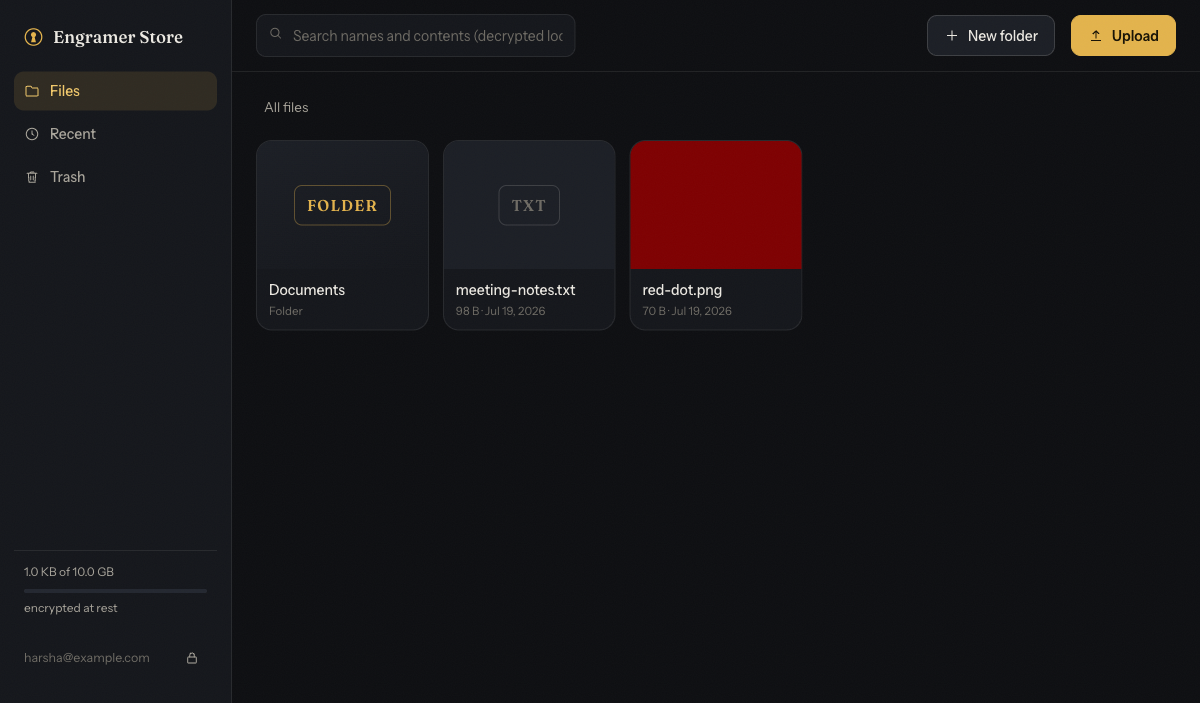
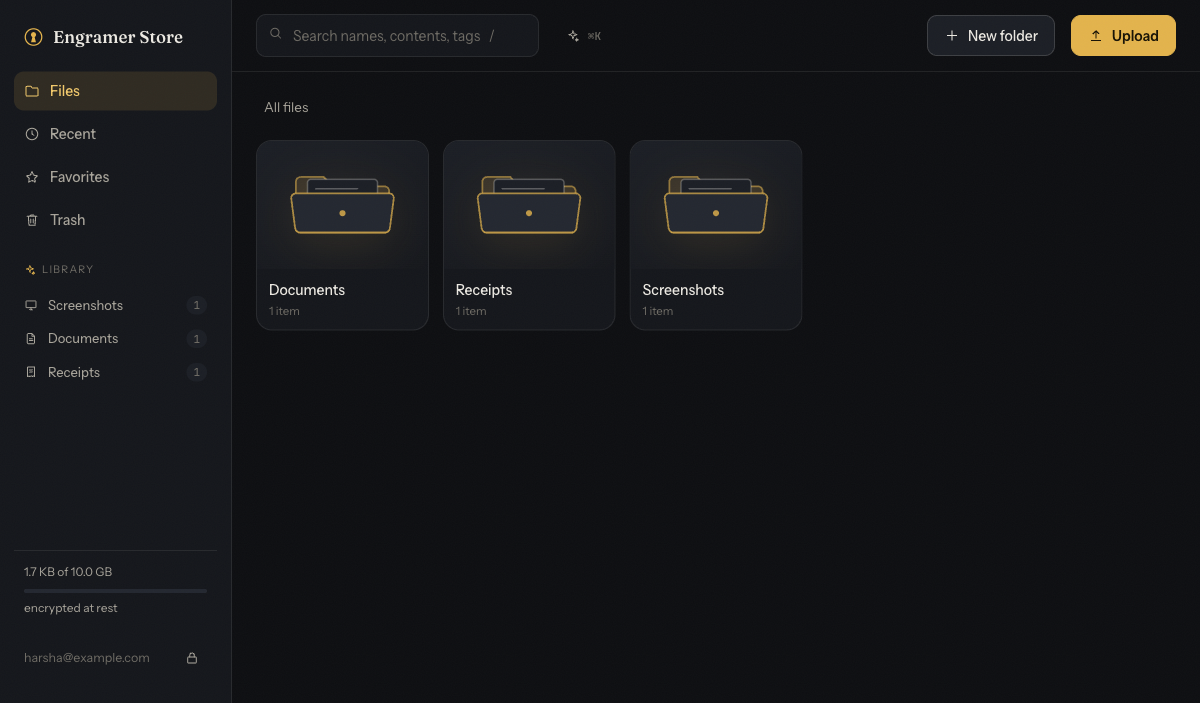
docs: intelligence design, platform roadmap, and 0.2.0 changelog
Designed by Harsha Rahul

diff --git a/docs/intelligence.md b/docs/intelligence.md
@@ -1,0 +1,63 @@
+# Client-side intelligence
+
+Everything described here runs in the browser, on decrypted data that never leaves the device. The server continues to store only ciphertext; categories, tags, and extracted text live inside each file's encrypted metadata. This is the same principle Ente applies to photos (on-device ML, encrypted indexes) applied to general file storage.
+
+## Auto-categorization
+
+Every upload is analyzed on the client before encryption:
+
+1. **Type signals**: MIME type and extension.
+2. **Name signals**: filename patterns (for example `Screenshot 2026-07-19 at ...`, `IMG_1234`, `invoice-march.pdf`).
+3. **Image signals**: EXIF (capture date, camera make) and pixel dimensions.
+4. **Content signals**: keywords in extracted text (invoice, receipt, total due, agreement, resume, tax year, and similar).
+
+The analyzer produces one **category** and a set of **tags**:
+
+| Category | Examples of what lands here |
+|---|---|
+| Photos | Camera images (EXIF present or photo-like names) |
+| Screenshots | Screen captures by filename or exact screen dimensions |
+| Videos, Audio | By MIME |
+| Documents | PDF and word-processing files without a stronger signal |
+| Receipts | Documents whose text reads like an invoice or receipt |
+| Notes | Markdown and plain text |
+| Code | Source files by extension |
+| Spreadsheets, Presentations | By MIME and extension |
+| Design | SVG, PSD, Figma exports, fonts |
+| Archives | zip, tar, dmg, and friends |
+| Books | epub, mobi |
+| Other | Everything else |
+
+Tags always include the category, the year (from EXIF capture date or file modification time), and the extension; plus situational tags such as `screenshot`, the camera make, or document tags like `invoice`, `contract`, `resume`.
+
+**Auto-filing**: files uploaded at the root are placed into a category folder (`Photos`, `Receipts`, ...) created on demand with an encrypted name. Uploads into a folder the user chose stay where the user put them; they are still tagged. After each upload batch, a reveal toast summarizes what was filed where and which tags were added; clicking it navigates to the destination.
+
+Categories and tags are ordinary metadata fields (`category`, `tags`, `favorite`) inside the encrypted metadata blob, so the server learned nothing new in this release and no schema migration was needed.
+
+## Content extraction
+
+- Plain text and code: read directly (512 KB read cap, 100 KB stored).
+- PDF: text extracted in the browser with pdf.js, capped at 40 pages and 100 KB.
+- Images: EXIF capture date and camera make.
+
+Extracted text is stored in the encrypted metadata and powers full-text search.
+
+## Search
+
+One engine serves the top bar and the command palette (Cmd+K or Ctrl+K):
+
+- Fuzzy name matching with tightness scoring.
+- Full-text matches over extracted content with highlighted snippets.
+- Filters composable with free text: `tag:receipts`, `type:image`, `type:pdf`, `in:<folder name>`, `is:favorite`.
+- The palette also surfaces actions (upload, new folder, jump to views) and navigates with arrow keys.
+
+Search never issues a network request; the index is the decrypted metadata already in memory.
+
+## Library views
+
+The sidebar's Library section lists auto-categories with live counts (Photos, Screenshots, Documents, Receipts, and any other non-empty category) plus Favorites. These are smart views computed from tags, independent of physical folder location.
+
+## Planned
+
+- Optional OCR for screenshots and scans (Tesseract WASM, self-hosted assets, opt-in because of asset size).
+- Semantic image search with an on-device CLIP-family model through transformers.js, following Ente's MobileCLIP approach; embeddings would join the encrypted metadata like every other derived signal.

diff --git a/README.md b/README.md
@@ -12,10 +12,12 @@ Cloud storage should not require trusting the storage provider. Engramer Store a
 
 - **True end-to-end encryption.** XChaCha20-Poly1305 streaming encryption for file content, XSalsa20-Poly1305 for keys and metadata, Argon2id for password key derivation. All primitives from libsodium; no custom cryptography.
 - **Drive-style file management.** Nested folders, drag-and-drop multi-file upload with per-file progress, rename, move, trash and restore.
-- **Client-side search.** Fuzzy file name search plus full-text search over content extracted from text files at upload time. The index is part of the encrypted metadata; queries never leave your device.
+- **Auto-organization.** Every upload is analyzed on your device and filed into category folders (Photos, Screenshots, Receipts, Code, and more) with auto-assigned tags: capture year, camera make, invoice, contract, resume. The Library sidebar gives live category views. All of it lives inside encrypted metadata; the server sees none of it. See [docs/intelligence.md](docs/intelligence.md).
+- **Client-side search.** A Cmd+K command palette and top-bar search over names, tags, and full text extracted from text files and PDFs at upload time, with filters like `tag:receipts`, `type:image`, `in:Work`, `is:favorite`. Queries never leave your device.
 - **Encrypted previews and thumbnails.** Images, video, audio, PDF, and text preview in the browser after local decryption. Thumbnails are generated on the client and stored encrypted.
 - **Public share links that keep the server blind.** The decryption key travels in the URL fragment, which browsers never send over the wire. Links are revocable server-side.
 - **Recovery keys.** A random recovery key, shown once at signup, can restore access after a lost password. Password changes re-wrap the master key without re-encrypting any data.
+- **Installable app.** The web client is a PWA: add it to your iPhone home screen or your Mac Dock and it runs standalone with its own icon. Paste a screenshot anywhere in the app to store it encrypted. Native desktop and mobile plans are in [docs/native-apps.md](docs/native-apps.md).
 - **Quotas and delta sync.** Per-user storage quotas enforced during streaming upload, and a sequence-number sync protocol so clients converge in one round trip.
 
 ## What the server can and cannot see
@@ -35,6 +37,8 @@ pnpm --filter @engramer/server start
 ```
 
 Open http://127.0.0.1:3080, create a vault, and store your recovery key somewhere safe. All state lives under `apps/server/data/`.
+
+To use it as an app: on iPhone, open the site in Safari, tap Share, then "Add to Home Screen"; on a Mac, use Safari's File menu, "Add to Dock" (or Chrome's Install button).
 
 Configuration via environment variables:
 

diff --git a/docs/native-apps.md b/docs/native-apps.md
@@ -1,0 +1,25 @@
+# Apps and platforms
+
+## What exists today
+
+| Platform | Status |
+|---|---|
+| Web | Full client at your server's URL |
+| iPhone / iPad | Installable web app (PWA): Share, then "Add to Home Screen". Opens standalone with its own icon; on iOS 26 home-screen sites open as apps by default |
+| Mac | Installable web app: Safari File menu, "Add to Dock", or Chrome "Install Engramer Store". Runs in its own window with a Dock icon |
+| Android | Installable PWA with install prompt |
+| Native desktop and mobile binaries | Planned; see roadmap below |
+
+For comparison: Google Drive ships native iOS, Android, and desktop sync clients; Ente ships Flutter apps for iOS and Android plus desktop builds. Engramer Store starts from an installable web app because the entire client, including all cryptography, already runs in the browser.
+
+### iOS notes
+
+The installed web app works offline for the app shell, but iOS applies tighter storage limits than other platforms and can evict site storage after long disuse. Keys live in the session only, so eviction never risks data loss; you sign back in and the vault resyncs. In the EU, Apple opens home-screen web apps in the browser instead of standalone mode.
+
+## Roadmap
+
+**Desktop (first): Tauri 2.** Tauri wraps the existing web client in a native shell with a Rust core: binaries around 8 MB versus roughly 165 MB for an equivalent Electron app, with lower memory use. Stable since October 2024. The desktop app adds what a browser cannot do well: a menu-bar quick-drop target, global shortcut capture, launch at login, and native file associations. The web client is reused as-is, so the crypto path stays identical and audited once.
+
+**Mobile (second): Tauri mobile or Flutter.** Tauri 2 has iOS and Android targets sharing the desktop codebase, with a stable API but a younger plugin ecosystem. If the mobile experience needs to go deeper than a WebView (background camera upload, share-sheet integration, widgets), Flutter is the fallback, which is the route Ente took. Decision point: after the desktop app ships, evaluate Tauri mobile's camera and share-extension plugins; choose Flutter only if they fall short.
+
+**Not planned: Electron.** Bundle size and memory cost buy nothing here that Tauri does not already provide.

diff --git a/docs/architecture.md b/docs/architecture.md
@@ -126,7 +126,7 @@ React 19 + Vite. All cryptography runs in the browser through the shared crypto 
 - The file browser is a Drive-style tree with grid and list views, breadcrumbs, drag-and-drop upload, multi-file upload with per-file progress, and keyboard navigation.
 - Uploads: read, chunk-encrypt, and stream per file; generate and encrypt thumbnails for images and video frames; extract text content from small text files into the encrypted metadata for search.
 - Previews decrypt to an in-memory blob URL: images, video, audio, PDF, and text render natively without the plaintext ever touching the server.
-- Search runs entirely on the client over decrypted metadata: fuzzy file name match, type filters, and full-text hits from the extracted content index. This is the Ente principle applied to files: the intelligence lives with the user, the ciphertext lives with the server.
+- Search runs entirely on the client over decrypted metadata: fuzzy file name match, type filters, and full-text hits from the extracted content index. This is the Ente principle applied to files: the intelligence lives with the user, the ciphertext lives with the server. Auto-categorization, tags, and the search grammar are described in [intelligence.md](intelligence.md).
 - Session state keeps decrypted keys in memory only. Reloading re-derives from the password or a session-cached wrapped key.
 
 ## Trust model

diff --git a/CHANGELOG.md b/CHANGELOG.md
@@ -1,5 +1,20 @@
 # Changelog
 
+## 0.2.0
+
+Intelligence and experience release. Everything below runs on the client; the server still sees only ciphertext.
+
+- Auto-categorization: uploads are analyzed on-device (type, name patterns, EXIF, dimensions, content keywords) and filed into category folders with auto-assigned tags such as capture year, camera make, screenshot, invoice, contract, and resume.
+- Library: live category views in the sidebar (Photos, Screenshots, Documents, Receipts, and more) computed from encrypted tags.
+- Deeper search: full-text extraction from PDFs via pdf.js joins text files in the encrypted index; a Cmd+K command palette searches names, tags, and contents with filters (`tag:`, `type:`, `in:`, `is:favorite`) and runs actions.
+- Favorites with instant star toggle, editable tag chips, and a post-upload reveal showing where files were filed and how they were tagged.
+- Paste to upload: paste a screenshot or file anywhere in the app.
+- Installable app (PWA): standalone window, home-screen and Dock icons, offline app shell; encrypted content is deliberately never cached.
+- Illustrated folder and file-type artwork with per-kind accent colors, plus per-category sidebar icons.
+- Platform documentation: current install options and the native desktop and mobile roadmap.
+
+Designed by Harsha Rahul
+
 ## 0.1.0
 
 Initial release.
